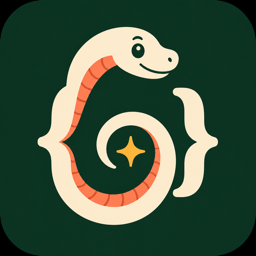
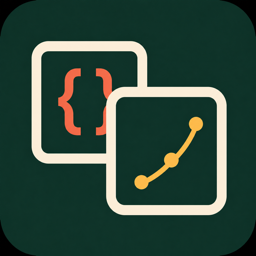
Bruk nytt kode- og grafikon

diff --git a/webapp/README.md b/webapp/README.md
@@ -57,5 +57,5 @@ SHA-256-kontrollsummer. Produksjonsbygg kan signeres ved å sette
 
 Hver læringsmodul har to editorfaner: en tom «Skriv selv»-lab med konkrete
 skriveinstruksjoner og en redigerbar «Fasit». Kode og resultat kan kopieres
-samlet som formatert tekst eller bilde. Kodeormen i `public/brand` brukes som
-favicon, merke i nettsiden og `.icns`-ikon i Mac-pakken.
+samlet som formatert tekst eller bilde. Det felles kode- og grafikonet i
+`public/brand` brukes som favicon, merke i nettsiden og `.icns`-ikon i Mac-pakken.
